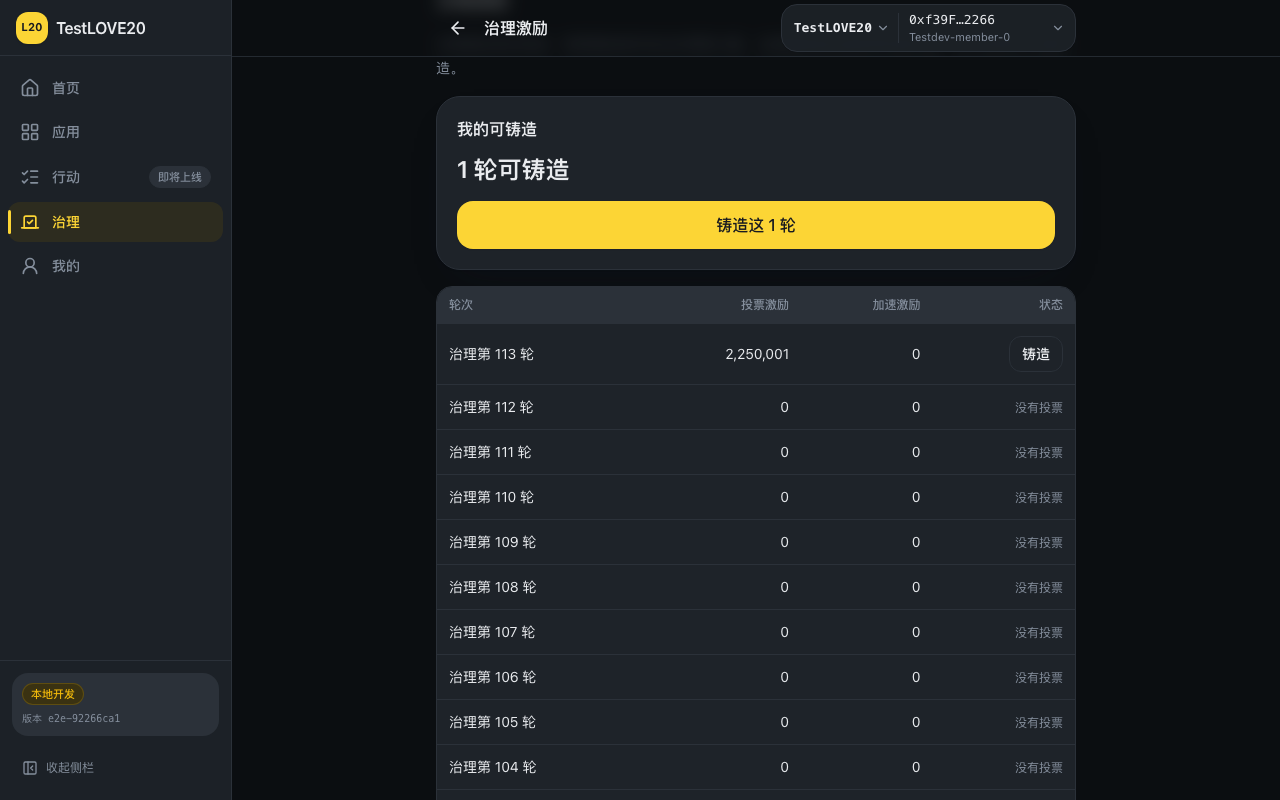
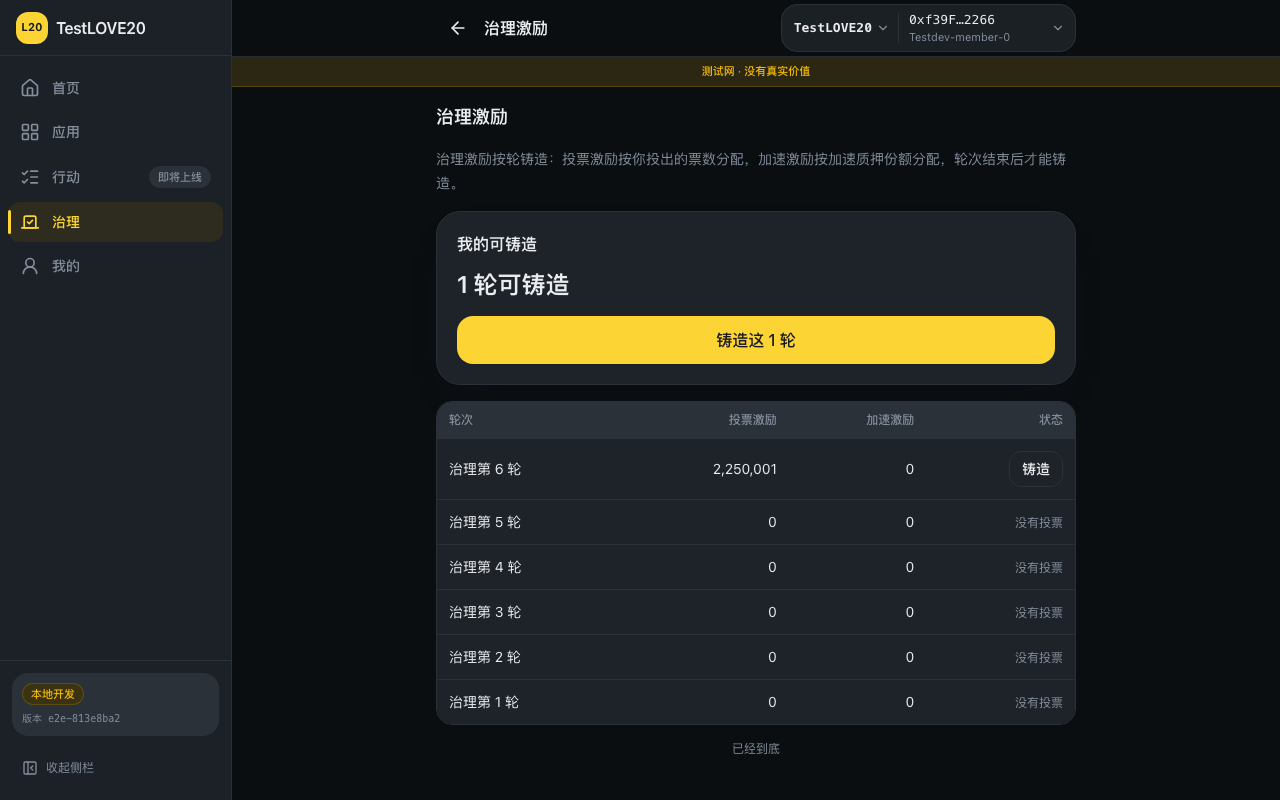
fix(mint,gov): 修走查发现的授权行误标 + 记录页口径与旧术语
owner 2026-11-21 走查（ego-browser 新人全流程）修的三处：
1. 铸造身份页：名字为空/价格未算出时曾显示「已授权」。新增纯函数
   `approvalRowState`：价格未知→不渲染授权行；额度未读到→「读取授权中」；
   价格算出后才给「授权 / 已授权 / 已长期授权」结论（+4 条单测）。
2. `/vote/records` intro 仍写「占比…占该轮总投出票数」，与表格新口径
   （占该提案总票数）不一致 → 改文案。
3. 治理首页规则卡旧术语：「行动 / 行动激励 / 推举一个行动」→
   「提案 / 提案激励 / 推举一个提案」（core 已改提案口径）。
4. `global-actions-screens.spec.ts`：按新行为先给名字再断言授权行。

验证（新合约复跑）：8545/8555/8566 全部用 core `a3dbcc1` 重新 bootstrap；
`pnpm check` 935 passed；全量 e2e 166/166（11.5m，EXIT 0）；合约线
`gov-core-contract.mjs` 191/191 PASS；新人全流程 11 步走通（空投→身份→
质押→推举→投票→治理激励铸造→提案激励结算→记录页）。
截图 235 张（gov-core 28 张按新行为重拍）。

diff --git a/src/features/mint-identity/ui/mint-identity-panel.tsx b/src/features/mint-identity/ui/mint-identity-panel.tsx
@@ -23,6 +23,7 @@ import { describeMintError } from '@/features/mint-identity/lib/mint-errors';
 import { useMintConfig } from '@/features/mint-identity/model/use-mint-config';
 import { useMintQuote, type MintNameStatus } from '@/features/mint-identity/model/use-mint-quote';
 import { useMintTransaction } from '@/features/mint-identity/model/use-mint-transaction';
+import { approvalRowState } from '@/features/mint-identity/lib/approval-row';
 import { mintHandoffState } from '@/features/mint-identity/lib/mint-handoff';
 import { useCommunityContext } from '@/features/switch-community/model/use-community-context';
 import { MintFundsBranch } from '@/features/mint-identity/ui/mint-funds-branch';
@@ -317,25 +318,34 @@ export function MintIdentityPanel({
 
   const longTermApproved =
     effectiveAllowance !== undefined && approvalKind(effectiveAllowance) === 'unlimited';
-  const approveLabel = needsApproval
-    ? tx.approveStage === 'wallet'
-      ? copy.approve.approving
-      : tx.approveStage === 'pending'
-        ? copy.approve.confirming
-        : useUnlimitedApproval
-          ? copy.approve.longTermAction(symbol ?? '')
-          : copy.approve.action(symbol ?? '')
-    : effectiveAllowance === undefined
-      ? copy.approve.loading
-      : longTermApproved
-        ? copy.approve.longTermActive
-        : copy.approve.approved;
+  // owner 2026-11-21 走查 P1：价格未知（名字没填/不合法）时**不渲染授权行**，
+  // 绝不把「不知道」说成「已授权」；价格算出来后再按 allowance 给结论。
+  const approvalState = approvalRowState({
+    cost,
+    allowance: effectiveAllowance,
+    longTermApproved,
+  });
+  const showApprove = approvalState !== 'hidden';
+  const approveLabel =
+    approvalState === 'needs-approval'
+      ? tx.approveStage === 'wallet'
+        ? copy.approve.approving
+        : tx.approveStage === 'pending'
+          ? copy.approve.confirming
+          : useUnlimitedApproval
+            ? copy.approve.longTermAction(symbol ?? '')
+            : copy.approve.action(symbol ?? '')
+      : approvalState === 'checking'
+        ? copy.approve.loading
+        : approvalState === 'long-term'
+          ? copy.approve.longTermActive
+          : copy.approve.approved;
   const approveNote =
-    needsApproval && useUnlimitedApproval
+    approvalState === 'needs-approval' && useUnlimitedApproval
       ? copy.approve.longTermApproveNote(symbol ?? '')
-      : effectiveAllowance === undefined
+      : approvalState === 'checking' || approvalState === 'hidden'
         ? null
-        : longTermApproved
+        : approvalState === 'long-term'
           ? copy.approve.longTermNote
           : copy.approve.note(symbol ?? '');
   const mintLabel =
@@ -476,18 +486,20 @@ export function MintIdentityPanel({
                 flow and *above* the primary action — never a fixed dock below it.
                 A long-term approval keeps its own read-only label (已长期授权). */}
             <ActionStack>
-              <Button
-                variant={needsApproval ? 'primary' : 'secondary'}
-                size="lg"
-                className="w-full"
-                data-testid="mint-approve"
-                onClick={handleApprove}
-                disabled={!needsApproval || !isNameReady || isTxBusy}
-                loading={tx.approveStage === 'wallet'}
-              >
-                {approveLabel}
-              </Button>
-              {approveNote !== null ? (
+              {showApprove ? (
+                <Button
+                  variant={needsApproval ? 'primary' : 'secondary'}
+                  size="lg"
+                  className="w-full"
+                  data-testid="mint-approve"
+                  onClick={handleApprove}
+                  disabled={!needsApproval || !isNameReady || isTxBusy}
+                  loading={tx.approveStage === 'wallet'}
+                >
+                  {approveLabel}
+                </Button>
+              ) : null}
+              {showApprove && approveNote !== null ? (
                 <p className="text-xs leading-5 text-muted">{approveNote}</p>
               ) : null}
               <Button

diff --git a/src/shared/config/copy-pages.ts b/src/shared/config/copy-pages.ts
@@ -1599,7 +1599,7 @@ export const copy = {
       communityLp: '流动性凭证总量',
       communityBoost: '本阶段有效加速份额',
       communityBurned: '累计销毁社区代币',
-      becomeTitle: '想给自己喜欢的行动投票？',
+      becomeTitle: '想给自己喜欢的提案投票？',
       becomeBody: '质押社区代币的流动性，拿到治理权后就能参与投票与激励分配。',
       becomeAction: '立即成为治理者',
       unstakeAction: '取消质押',
@@ -1664,8 +1664,8 @@ export const copy = {
     governorIntro: {
       title: '治理权的作用',
       itemOwner: '治理权来自流动性质押：份额越多、承诺解锁期越长，治理权越大。',
-      itemReward: (percent: string) => `每轮获得 ${percent}% 以上投票支持的行动，有行动激励。`,
-      itemSubmit: (percent: string) => `有 ${percent}% 的治理权，每轮可推举一个行动进入投票列表。`,
+      itemReward: (percent: string) => `每轮获得 ${percent}% 以上投票支持的提案，有提案激励。`,
+      itemSubmit: (percent: string) => `有 ${percent}% 的治理权，每轮可推举一个提案进入投票列表。`,
     },
     smart: {
       label: '智能模式',
@@ -1866,7 +1866,7 @@ export const copy = {
       roundHeader: (round: string, votes: string) => `治理第 ${round} 轮 · 共投出 ${votes} 票`,
       entryLine: (id: string, title: string) => (title.length > 0 ? `#${id} ${title}` : `#${id}`),
       entryMine: (votes: string) => `我的投票 ${votes}`,
-      entryShare: (percent: string) => `占本轮 ${percent}%`,
+      entryShare: (percent: string) => `占该提案票数 ${percent}%`,
       loadMore: '加载更多轮次',
       loadingMore: '读取更多轮次中…',
       loading: '读取投票记录中…',
@@ -1874,7 +1874,7 @@ export const copy = {
       retry: '重试',
       /** 独立页 `/vote/records`。 */
       recordsTitle: '我的投票记录',
-      recordsIntro: '按轮次倒序列出你投过票的提案；占比是你在该提案的票数占该轮总投出票数的比例。',
+      recordsIntro: '按轮次倒序列出你投过票的提案；占比是你在该提案的票数占该提案总票数的比例。',
       recordsEmptyAction: '去投票',
     },
     /**

diff --git a/src/features/mint-identity/lib/approval-row.test.ts b/src/features/mint-identity/lib/approval-row.test.ts
@@ -1,0 +1,41 @@
+import { describe, expect, it } from 'vitest';
+import { approvalRowState } from './approval-row';
+
+/**
+ * 走查回归（owner 2026-11-21）：新账户在**没输入名字、价格未知**时，
+ * 页面曾显示「已授权」。价格未知必须给 `hidden`，不能落到「已授权」。
+ */
+describe('approvalRowState', () => {
+  it('价格未知 → hidden（新账户不再被误标成「已授权」）', () => {
+    expect(approvalRowState({ cost: undefined, allowance: 0n, longTermApproved: false })).toBe(
+      'hidden',
+    );
+    expect(approvalRowState({ cost: undefined, allowance: 123n, longTermApproved: false })).toBe(
+      'hidden',
+    );
+  });
+
+  it('价格已算出但额度还在读 → checking（显示「读取授权额度中…」）', () => {
+    expect(approvalRowState({ cost: 100n, allowance: undefined, longTermApproved: false })).toBe(
+      'checking',
+    );
+  });
+
+  it('额度不足 → needs-approval', () => {
+    expect(approvalRowState({ cost: 100n, allowance: 0n, longTermApproved: false })).toBe(
+      'needs-approval',
+    );
+    expect(approvalRowState({ cost: 100n, allowance: 99n, longTermApproved: false })).toBe(
+      'needs-approval',
+    );
+  });
+
+  it('额度足够 → approved；长期授权 → long-term', () => {
+    expect(approvalRowState({ cost: 100n, allowance: 100n, longTermApproved: false })).toBe(
+      'approved',
+    );
+    expect(approvalRowState({ cost: 100n, allowance: 1000n, longTermApproved: true })).toBe(
+      'long-term',
+    );
+  });
+});

diff --git a/src/features/mint-identity/lib/approval-row.ts b/src/features/mint-identity/lib/approval-row.ts
@@ -1,0 +1,28 @@
+/**
+ * 铸造身份页「授权行」该不该出现（owner 走查 2026-11-21 发现的 P1）。
+ *
+ * 背景：铸造价格依赖名字（`MemberNFT.calculateMintCost(name)`），名字没填/不合法时
+ * 价格是未知的。旧实现用 `needsApproval = cost !== undefined && allowance < cost`
+ * 推导按钮文案，于是「价格未知」被当成「不需要授权」，新账户会看到「已授权」——
+ * 而它其实一分钱都没授权过（走查里真实复现）。
+ *
+ * 正确口径：**价格未知时不给结论**（`hidden`），等输入合法名字、价格算出来以后，
+ * 才根据 allowance 与价格的关系显示「授权 / 已授权 / 已长期授权」。
+ */
+export type ApprovalRowState = 'hidden' | 'checking' | 'needs-approval' | 'approved' | 'long-term';
+
+export interface ApprovalRowInput {
+  /** 铸造价格；`undefined` = 名字还没算出价格。 */
+  readonly cost: bigint | undefined;
+  /** 当前授权额度；`undefined` = 还在读。 */
+  readonly allowance: bigint | undefined;
+  /** 是否已是长期授权（`allowance ≥ 2^255`）。 */
+  readonly longTermApproved: boolean;
+}
+
+export function approvalRowState(input: ApprovalRowInput): ApprovalRowState {
+  if (input.cost === undefined) return 'hidden';
+  if (input.allowance === undefined) return 'checking';
+  if (input.allowance < input.cost) return 'needs-approval';
+  return input.longTermApproved ? 'long-term' : 'approved';
+}

diff --git a/e2e/global-actions-screens.spec.ts b/e2e/global-actions-screens.spec.ts
@@ -101,7 +101,11 @@ test.describe('全局动作按钮与回执整改截图', () => {
         await shot(page, 'swap', theme, viewport.name);
 
         // 铸造：先授权按钮、后铸造主按钮，都在内容流里。
+        // owner 2026-11-21 走查 P1：铸造价格依赖名字，**名字为空时授权行不渲染**
+        // （不能把「不知道要不要授权」说成「已授权」）。所以这里先像真人一样起个名字，
+        // 等价格算出来，再断言授权行出现。
         await open(page, `/mint${QUERY}`, theme);
+        await page.locator('#mint-name').fill('Testshot');
         await expect(page.getByTestId('mint-approve')).toBeVisible({ timeout: 20_000 });
         await expect(page.getByTestId('mint-approve')).not.toContainText('读取授权额度中');
         await expect(page.getByTestId('mint-submit')).toBeVisible();

diff --git a/docs/STATUS.md b/docs/STATUS.md
@@ -48,6 +48,8 @@ M0 范围共 6 项（[m0-scope](product/m0-scope.md)「范围内」）。✅ 完
 
 | — | 2026-11-21 投票占比口径更正 + 新人全流程走查 | ✅/🔄 | ① **占比口径（owner 2026-11-21 更正）**：我的投票记录里每个提案的占比 = **我在该提案的票数 ÷ 该提案获得的总票数**（原实现误用了「该轮总投出票数」）。读模型 `use-my-votes` 增加逐提案 `voteAmountByProposalId` 读取（分母），渲染统一走新纯函数 `features/governance-vote/lib/my-votes-share.ts`（分母读不到就不显示，绝不拿我的票数当分母凑 100%），文案改为「占该提案票数 X%」；单测 `my-votes-share.test.ts` **6 条**含「同一笔票数在两种分母下结果不同」的反证。文档同步 [m0-ux-spec](product/m0-ux-spec.md) §3.14/§3.15、[three-line/gov-core.md](product/three-line/gov-core.md) §1.2b/§4。② **新人走查**（owner 要求用 /ego-browser 模拟新人走完治理流程）：见 [reviews/newcomer-walkthrough-2026-11-21.md](reviews/newcomer-walkthrough-2026-11-21.md)。结论：新人「连接 → 空投铸造 → 铸造身份页」顺畅；**卡点集中在并行进行的 core 接口迁移**（`/submit` 整页读不到、`vote()/submitNewProposal` 签名已变导致旧链写不出去、首页空投提醒已铸造仍显示可铸造），属迁移中间态；**真 UX 缺陷 1 个**——铸造身份页在价格未算出时提前显示「已授权」（`needsApproval` 依赖 `cost!==undefined`），已记入走查文档 P1 待修。走查同时确认：ego-browser 自带 MetaMask 兼容钱包，但钱包授权/签名弹窗属浏览器所有、agent 不可点（技能契约要求 handOff），真机验收需人点确认。**本轮前端线 e2e 未复跑**：`/submit` 等页面处于迁移中间态，等 core 提交并重新 bootstrap 链后再跑全量。 |
 
+| — | 2026-11-21 晚 新合约复跑 + 走查缺陷修复 | ✅ | core 接口改完（`a3dbcc1`，`targetData/targetMode`→`creationData`、参数顺序调整）后：① **链重建**：8545 / 8555 / 8566 全部用最新合约 clean bootstrap（`ALL CHECKS PASSED`），`pnpm sync:anvil` 重新生成 ABI/manifest（地址未变，确定性部署），补 3 条缺失错误文案（`CreationDataTooShort` / `InvalidCreationDataEncoding` / `InvalidGroupActionCreationData`）并 `pnpm gen:errors`。② **走查缺陷修复**：**P1** 铸造身份页「价格未算出时显示已授权」——新增纯函数 `approvalRowState`（价格未知→不渲染授权行、额度未读到→读取中），4 条单测；记录页 intro 口径与表格不一致（「该轮总投出票数」→「该提案总票数」）；治理首页规则卡旧术语「行动/行动激励/推举一个行动」→「提案/提案激励/推举一个提案」；`global-actions-screens.spec.ts` 按新行为先填名字再断言授权行。③ **新人全流程复跑通过**（[reviews/newcomer-walkthrough-2026-11-21.md](reviews/newcomer-walkthrough-2026-11-21.md) §5）：连接 → 空投铸造 1 亿 → 铸造身份 `NFT #6` → 选中 → 流动性质押（1 ETH + 2,000 × 100 阶段，治理权 +4,472.13）→ 推举提案 #1（门槛 44.7213）→ 投 100 票 → 治理激励铸造 2,250,001 → 提案激励 `100/5`、4,500,002 待结算 → 我的投票卡/记录页全部正确。④ **门禁**：`pnpm check` **935 passed / 127 文件**；全量 e2e **166/166（11.5m，EXIT 0）**；合约线 `scripts/verify/gov-core-contract.mjs` **191/191 PASS**（8566）。⑤ 遗留待 owner 定：新铸造身份不自动选中（走查 R4）。 |
+
 **未完成清单（别误读为 done）**：三处真机体验、test/prod 地址簿填充（协议尚未在 BSC 测试网/主网部署，两个变体的五个应用页按「未配置」禁用入口）、M1 的**行动域**（回调提案的推举/投票、验证、链群行动；core 的投票/推举/治理激励/提案激励已于 2026-11-21 实装）。e2e 已隔离到独立 8555 链（§6.1）；包体 prod **159.3** / dev **160.7** kB gzip（2026-11-19 收尾实测；2026-11-17 治理页后为 159.6/161.0；2026-11-16 把钱包菜单/社区菜单/弹层/占位页/404/版本提示文案移到 `copy-pages` 懒加载；dev 预算 161 = 160 + 1 kB 部署数据豁免，§6.2；新增 `gov-page` 懒加载 chunk 不占首屏）；ABI manifest 与漂移门禁已补（§6.5）。
 
 截图共 **235** 张（2026-11-21 实测：`find docs/product/screenshots -name '*.png' | wc -l` = 235；= 207 + 28 张 `gov-core-*`（含 4 张我的投票卡、4 张投票记录页）− 4 张 `/vote` 占位图 + 4 张 `gov-verify-placeholder-*`（占位样例改到 `/verify`），其中顶层 `ls docs/product/screenshots/*.png` 226 张 + `live/` 1 张；本轮 **167 张已按默认深色重拍、总数不变**；按前缀：home 7 / airdrop 10 / mint 4 / my-nft 5 / swap 21 / transfer 29（含转让抽屉 5、恢复流程 8）/ about 4 / apps 1 / me 3 / approvals 13 / batch-transfer 20 / liquidity 20 / theme 12 / tx-recovery 1 / global-actions 24 / gov-home 8（`gov-home-{mine,community}-{light,dark}-{mobile,desktop}`）/ me-stake 4（`me-stake-{light,dark}-{mobile,desktop}`，2026-11-18 23:20 新增）/ stake-lp 4 / stake-token 4 / unstake 4 / gov-core 28（2026-11-21 新增：投票/推举/治理激励/提案激励 × 5 状态 × 四档 + 首页我的投票卡 4 张 + 投票记录页 4 张）/ gov-verify-placeholder 4（原 `/vote` 占位样例改 `/verify`；治理域共 28 张新图；旧的 `gov-{stake,mine,boost-locked}` 12 张已随多页面 IA 重写删除）/ wallet-menu 2 / wallet-no-wallet 1 / community-search 1 / live 1），见 [`product/screenshots/`](product/screenshots/)。本次核对用到的文件：`home-identity-error.png`、`home-no-identity.png`、`swap-form.png`、`mint-form.png`、`airdrop-eligible.png`、`gov-home-mine-light-mobile.png`、`me-stake-light-mobile.png`、`stake-lp-light-mobile.png`、`unstake-light-mobile.png`、[`live/interface-test-live-2026-11-11.png`](product/screenshots/live/interface-test-live-2026-11-11.png)。

diff --git a/docs/product/reviews/newcomer-walkthrough-2026-11-21.md b/docs/product/reviews/newcomer-walkthrough-2026-11-21.md
@@ -65,3 +65,32 @@ owner 2026-11-21 选择「继续用注入桩全自动跑」，因此本次走查
 - 刷新页面后是否自动重连（真钱包）。
 - 钱包里的「添加网络 / 切换网络」提示是否按 `wallet_switchEthereumChain` 回退到 `wallet_addEthereumChain`（`ADR-0003 §1`），以及拒绝时页面是否给中性提示。
 - 连续两笔交易（授权 + 铸造）在真实钱包里是否需要手动切回页面。
+
+## 5. 复跑（2026-11-21 20:00，core 接口改完 + 链已重新 bootstrap）
+
+core 已提交（`a3dbcc1`，含 `creationData` 化与参数顺序调整），本机 8545/8555 已按最新合约重新 bootstrap，前端 ABI/错误文案已重新生成。**同一位新人账户（`0x9965…A4dc`，此时已无身份/无质押）重新从头走了一遍，全程真交易**：
+
+| # | 步骤 | 结果 | 证据 |
+| --- | --- | --- | --- |
+| 1 | 连接钱包 | ✅ | — |
+| 2 | 空投铸造 | ✅ 100,000,000 TestLOVE20 | tx `0x5e6e85a6…d1c8d34ea` |
+| 3 | 铸造身份（起名 `Testnewbie`） | ✅ **授权行只在价格算出后出现**（P1 已修）；价格 `900.0004`；铸造后 `NFT #6 Testnewbie`、烧掉 900.0004 | tx `0x86400b21…061739dd0` |
+| 4 | 选中身份 | ✅（需要手动去「我的 NFT」点「使用此身份 NFT」，见 §6） | — |
+| 5 | 流动性质押（1 ETH + 2,000 TestLOVE20 × 100 阶段） | ✅ 两笔（授权 + 质押）；预计治理权 `+4,472.13`，与链上一致 | — |
+| 6 | 推举提案 | ✅ 表单正常，门槛 `44.7213`（= 0.5% × 8,944 社区总治理权）；推举 **提案 #1「新人走查提案」** | 回执「提案 #1…已经推举进本轮」 |
+| 7 | 投票 | ✅ 治理第 9 轮，投 **100 票**；额度 4,472.13 → 已投 100 / 还能投 4,372.13 | 回执「提案 #1：100 票 / 本轮合计投出 100 票」 |
+| 8 | 治理首页「我的投票」卡 | ✅ 两格额度 + 预览记录：`治理第 9 轮 · 共投出 100 票`、`#1 新人走查提案`、`我的投票 100`、`占该提案票数 100%` | — |
+| 9 | `/vote/records` | ✅ 完整记录 + 「去投票 >>」入口 | — |
+| 10 | `/gov/rewards` | ✅ 阶段推进到 10 后出现「1 轮可铸造」；铸造（真交易）→ 行变「已铸造」、`0 轮可铸造`；回执「治理第 9 轮：2,250,001 TestLOVE20」 | — |
+| 11 | `/gov/proposal-rewards` | ✅ 治理第 9 轮：池 `4,500,002` / 总票数 100 / 门槛 5；提案 #1 `100 / 5`、激励 `4,500,002`、待结算、达标说明正确 | — |
+
+**复跑结论**：迁移期两个 P0（`/submit` 读不到、`vote()`/`submitNewProposal` 写不出去）**已消失**；新人可以完整走完「拿身份 → 拿治理权 → 推举 → 投票 → 铸造治理激励 → 看提案激励」全链路，数值与合约公式逐项吻合。
+
+## 6. 复跑新发现（已修 2 个，待定 1 个）
+
+| # | 问题 | 处理 |
+| --- | --- | --- |
+| R1 | **P1 已修**：价格未知时不再渲染授权行（`approvalRowState` 纯函数 + 4 条单测） | ✅ 已修，复跑验证 |
+| R2 | **投票记录页 intro 与表格口径不一致**：表格已改「占该提案票数」，intro 那句仍是「占该轮总投出票数」 | ✅ 已修（`recordsIntro`） |
+| R3 | **治理首页「治理权的作用」卡仍是旧术语**：「想给自己喜欢的**行动**投票」「投票支持的**行动**，有**行动激励**」「推举一个**行动**」——新 core 的对象是**提案**、激励是**提案激励** | ✅ 已修（3 处 copy） |
+| R4 | **新铸造的身份 NFT 不会自动选中**：回执写「还没有设为当前身份 NFT。」，新人要去「我的 NFT」再点一次「使用此身份 NFT」，否则治理域全部停在「先选择一个身份 NFT」门禁 | ⏳ 待 owner 定：铸造成功后自动选中（若当前无选中身份）是常见做法；改动会影响 `mint-identity` 的验收口径与既有 spec |
